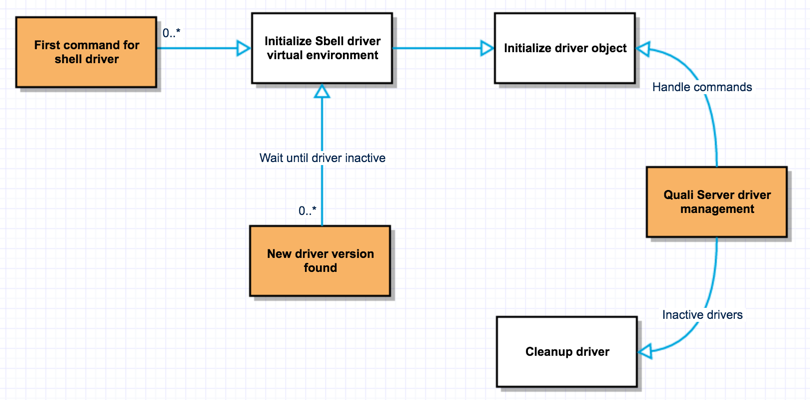
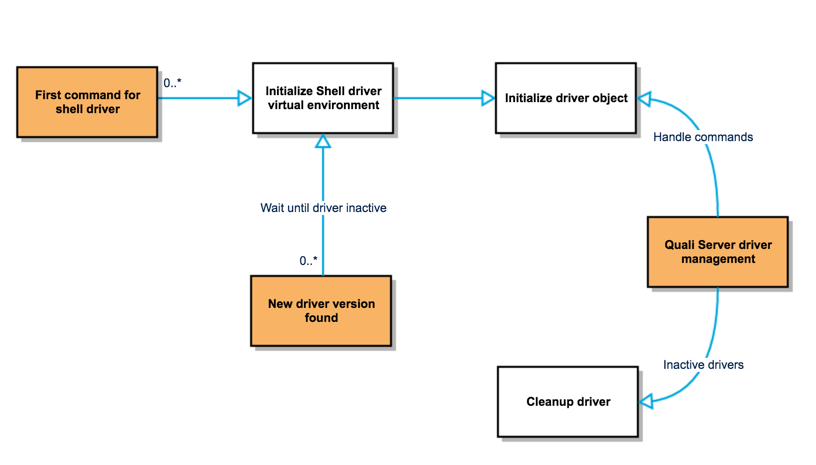
fixed mistakes

Changed region(s): [[0.0, 0.03, 0.9877, 0.99]]

diff --git a/_posts/2016-07-11-creating-a-shell.md b/_posts/2016-07-11-creating-a-shell.md
@@ -306,7 +306,7 @@ Reinstall the Shell, refresh and open the attributes side pane again:
 
 ![Shell Image]({{ site.url }}/devguide/assets/shell_custom_attribute.png)
 
-### Things to watch out for when adding custom
+### Things to watch out for when adding custom attribute
 
 1. Attribute name collisions: Avoid common general names like 'Speed' or 'Connected'. Try to include the Shell name, or some other unique element to avoid name collisions.
 2. Only add attributes to your Shell model, avoid changing the Standard models in the _datamodel.xml_ file.

diff --git a/index.md b/index.md
@@ -9,7 +9,7 @@ Welcome to the CloudShell developer guide!
 These pages will take you through all you need to know to become an expert Shell or orchestration developer.
  The guide is intended both for developers taking their first steps with the platform as well as for seasoned CloudShell developers.
 
-### A Shell in NutShell
+### A Shell in a nutshell
 
 Shells enable CloudShell users to interact with a wide range of components including physical devices, virtual appliances and apps.
 
